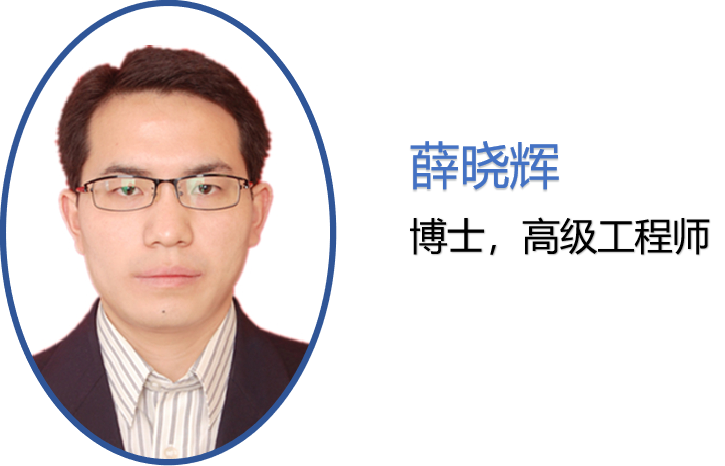
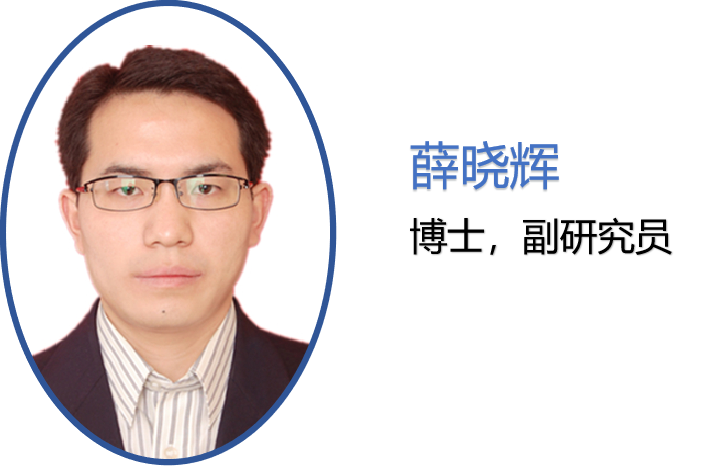
Add files via upload

Changed region(s): [[0.7283, 0.4506, 1.0, 0.5708]]

diff --git a/group/薛晓辉老师.html b/group/薛晓辉老师.html
@@ -49,7 +49,7 @@
 	   <p align="right"><a href="index.html">返回首页</a></p> 
 		  <img src="薛晓辉老师.png" width="400" height="220" alt=""/>
   <h1>团队导师</h1><HR align=left width=1300 color=#ADADAD SIZE=0.3>
-		<p align="justify">&emsp;&emsp;在职博士，高级工程师。1988年出生于山西山阴。
+		<p align="justify">&emsp;&emsp;薛晓辉，男，博士，副研究员。1988年出生于山西山阴。
 		研究方向：基于分布式光纤的交通基础设施健康监测及评价技术、
 		运营公路隧道可靠性评价及快速修复技术、复杂条件下城市轨道交通工程设计施工方案优化技术。
 		先后主持山西省科技厅、交通运输部等项目10余项，
